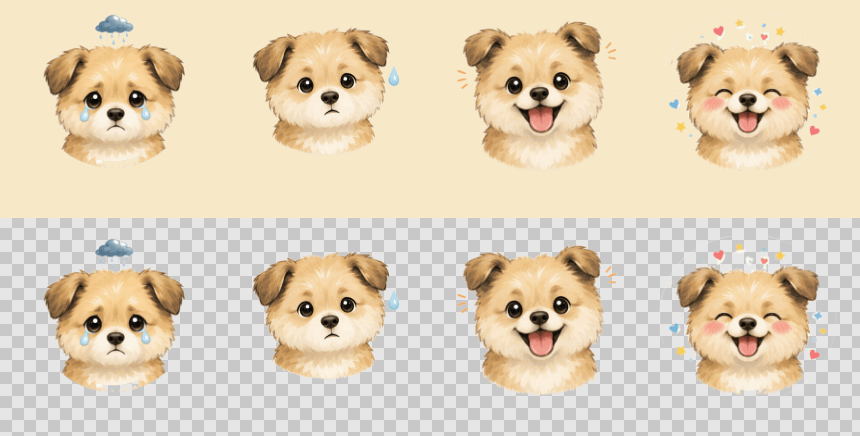
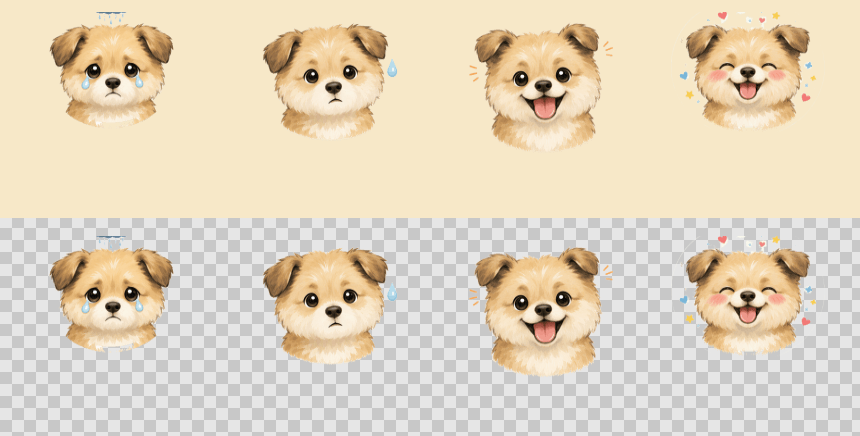
小程序: 四心情贴纸改腮宽归一化真正对齐头宽头顶(彩纸乌云不参与基准)，文件名升 v4 防同路径缓存

diff --git a/miniapp/src/features/main/miniappPresentation.test.ts b/miniapp/src/features/main/miniappPresentation.test.ts
@@ -250,10 +250,10 @@ describe('miniapp ui presentation rules', () => {
     expect(form).toContain('polaroid-run-v2.png')
     expect(form).toContain('replacePrimaryPhoto')
     expect(form).toContain('editor-yard.jpg')
-    expect(form).toContain('moods/mood-1-v3.png')
-    expect(form).toContain('moods/mood-2-v3.png')
-    expect(form).toContain('moods/mood-3-v3.png')
-    expect(form).toContain('moods/mood-4-v3.png')
+    expect(form).toContain('moods/mood-1-v4.png')
+    expect(form).toContain('moods/mood-2-v4.png')
+    expect(form).toContain('moods/mood-3-v4.png')
+    expect(form).toContain('moods/mood-4-v4.png')
     expect(form).toContain('journal-editor__moods')
     expect(form).toContain('chooseMood')
     expect(form).not.toContain('pickMood')
@@ -287,10 +287,10 @@ describe('miniapp ui presentation rules', () => {
     expect(manifest).toContain('journal/action-photo-v2.png')
     expect(manifest).toContain('journal/action-write-v2.png')
     expect(manifest).toContain('journal/editor-yard.jpg')
-    expect(manifest).toContain('moods/mood-1-v3.png')
-    expect(manifest).toContain('moods/mood-2-v3.png')
-    expect(manifest).toContain('moods/mood-3-v3.png')
-    expect(manifest).toContain('moods/mood-4-v3.png')
+    expect(manifest).toContain('moods/mood-1-v4.png')
+    expect(manifest).toContain('moods/mood-2-v4.png')
+    expect(manifest).toContain('moods/mood-3-v4.png')
+    expect(manifest).toContain('moods/mood-4-v4.png')
   })
 
   it('presents the message tab empty state with an invite illustration and share action', () => {

diff --git a/miniapp/src/features/main/JournalEditorForm.tsx b/miniapp/src/features/main/JournalEditorForm.tsx
@@ -17,10 +17,10 @@ const polaroidRun = require('../../assets/journal/polaroid-run-v2.png')
 const editorYard = require('../../assets/journal/editor-yard.jpg')
 
 const moodImages: Record<string, string> = {
-  happy: require('../../assets/moods/mood-3-v3.png'),
-  calm: require('../../assets/moods/mood-2-v3.png'),
-  sad: require('../../assets/moods/mood-1-v3.png'),
-  excited: require('../../assets/moods/mood-4-v3.png'),
+  happy: require('../../assets/moods/mood-3-v4.png'),
+  calm: require('../../assets/moods/mood-2-v4.png'),
+  sad: require('../../assets/moods/mood-1-v4.png'),
+  excited: require('../../assets/moods/mood-4-v4.png'),
 }
 
 const MAX_PHOTOS = 3

diff --git a/docs/features/miniapp.md b/docs/features/miniapp.md
@@ -46,7 +46,7 @@ flowchart LR
 - 小记、消息、我的三个 tab 的根节点（`.miniapp-journal` / `.miniapp-messages` / `.miniapp-me`）与游戏中心、锁定信件场景同模式，各自是 `position: fixed; inset: 0; z-index: 19; overflow-y: auto` 的固定全屏层：页面文档流高度归零，真机整页不可拖动，内容超一屏由层内滚动兜底（小记正常内容仍恰好一屏，padding 8px 28px 226px 复刻原几何）。层在底部导航（z 20）之下；loading 与解锁后的活跃态小窝仍走原文档流。
 - 「关于小多利」弹窗长按版本号进入隐藏 GM 工具：可为当前账号批量添加 1/3/5 个测试好友（服务端生成 `gm_friend_*` 假用户并直接建立已接受关系、房间和宠物），也可一键删除全部测试好友；删除只作用于 GM 生成的假用户及其关系（真实好友不受影响，服务端按外键级联清理对应房间与宠物数据）。添加或删除成功后立即刷新首页上下文（`MiniappMeView` 的 `onDataChanged`）。
 - 全小程序返回入口统一使用共享组件 `MiniappBackButton`（`miniapp/src/components/`）：无底色的深棕细左箭头（CSS 边框旋转绘制，4rpx 描边），仅保留 72rpx 透明命中区域与按压变淡反馈，`aria-label="返回"`。写日记顶栏、纪念日面板、今日运势页、游戏中心和五子棋页的返回都由它渲染，不再各自维护 `‹` 字符或文字样式。
-- 小记为单人日记：整页固定一屏不滚动（容器 `height: calc(100vh - 220px)`、`overflow: hidden`），今日运势条固定可见，「查看」展开的历史日记在今日块固定区域内超出裁剪；页面背景与其它主界面同为 `#fff8ee`；标题左对齐，下方简介「记录和小多利的每一天。」，「日记 / 纪念日」居中分页；周历放在白卡片里；进入小记时今日日记先显示三行微光骨架占位（`prefers-reduced-motion` 时静止），本周日记接口返回后才把骨架换成空态文案或已记录内容，不再先闪「还没有日记」默认文案再刷新；周日记走内存单槽缓存（`miniapp/src/features/main/journalWeekCache.ts`，只存最后一次请求窗口），请求成功写入缓存，再次切入小记 tab（组件重挂载）时直接渲染缓存数据、不重播骨架动画，改为后台静默刷新替换；已登录冷启动与微信登录成功后后台预取本周日记，首次进小记多数也能直接命中，登出时清缓存防串号；跨周翻页与缓存外的周仍按首次加载播骨架，请求失败时保留缓存/已有数据不闪空态；今日日记卡右侧有「查看」，未上传照片时默认拍立得用坐姿小狗并放大到 280×292（与上传照片白框外径一致，切换不跳变），正文在卡内 `ScrollView` 滚动查看（字号不变，`word-break: break-all` 保证无空格长串也换行），上传照片后用白框拍立得展示（264 内衬 + 8/8/20 边衬，倾角与坐姿邮票一致，约 -6°）；写日记/拍照记录插图较大；各区块使用统一 32rpx 间距；写日记/拍照记录按钮收矮且距卡片底边不变，今日日记上半拍立得区固定 292rpx，运势条紧跟其下、自带 24rpx 底部外边距整体上移，与底栏间距接近消息页。写日记和纪念日都在当前页全屏打开，不跳转；写日记覆盖层固定一屏不滚动，自带顶栏（统一返回按钮 / 写日记 / 保存）、白卡片占满剩余高度（卡片内除正文外全部定高不可压缩；庭院插画整体下移 85rpx 裁掉部分底部空草地，小狗落在卡片下方约 330rpx 露出带里）和心情选择行；正文 textarea 是卡片内唯一弹性区（内容多时在框内滚动，最低 60rpx），相册缩略图行和地点输入出现时压缩正文区而非撑高卡片；心情直接点选表情图（难过/平静/开心/兴奋，120rpx 大图，选中高亮；表情为 200×200 透明贴纸，由 `miniapp/tools/make-mood-slices.mjs` 从四心情源图出件：边界洪泛转真透明 + 圆盘灰环几何擦除 + 按头部归一化统一四张的尺寸与高度，文件名带版本号当前 -v3），日期行不再重复显示心情文字；天气按钮动态显示当前天气图标；未放照片时拍立得放大为 300×326（奔跑邮票 `aspectFit` 居中，「点这里放今天的照片」提示收在框内下方，不遮挡工具栏），放照片后白框外径与之完全一致（272 内衬 + 14/14/40 边衬，倾角与默认奔跑邮票一致约 +6°，两张默认邮票倾角实测方向相反），切换尺寸不跳变，默认插图为奔跑小狗；照片最多 3 张，点主图弹「查看大图/更换照片」，点主图下方缩略图直接预览大图，缩略图 × 移除不影响预览。不提供点赞和分享。
+- 小记为单人日记：整页固定一屏不滚动（容器 `height: calc(100vh - 220px)`、`overflow: hidden`），今日运势条固定可见，「查看」展开的历史日记在今日块固定区域内超出裁剪；页面背景与其它主界面同为 `#fff8ee`；标题左对齐，下方简介「记录和小多利的每一天。」，「日记 / 纪念日」居中分页；周历放在白卡片里；进入小记时今日日记先显示三行微光骨架占位（`prefers-reduced-motion` 时静止），本周日记接口返回后才把骨架换成空态文案或已记录内容，不再先闪「还没有日记」默认文案再刷新；周日记走内存单槽缓存（`miniapp/src/features/main/journalWeekCache.ts`，只存最后一次请求窗口），请求成功写入缓存，再次切入小记 tab（组件重挂载）时直接渲染缓存数据、不重播骨架动画，改为后台静默刷新替换；已登录冷启动与微信登录成功后后台预取本周日记，首次进小记多数也能直接命中，登出时清缓存防串号；跨周翻页与缓存外的周仍按首次加载播骨架，请求失败时保留缓存/已有数据不闪空态；今日日记卡右侧有「查看」，未上传照片时默认拍立得用坐姿小狗并放大到 280×292（与上传照片白框外径一致，切换不跳变），正文在卡内 `ScrollView` 滚动查看（字号不变，`word-break: break-all` 保证无空格长串也换行），上传照片后用白框拍立得展示（264 内衬 + 8/8/20 边衬，倾角与坐姿邮票一致，约 -6°）；写日记/拍照记录插图较大；各区块使用统一 32rpx 间距；写日记/拍照记录按钮收矮且距卡片底边不变，今日日记上半拍立得区固定 292rpx，运势条紧跟其下、自带 24rpx 底部外边距整体上移，与底栏间距接近消息页。写日记和纪念日都在当前页全屏打开，不跳转；写日记覆盖层固定一屏不滚动，自带顶栏（统一返回按钮 / 写日记 / 保存）、白卡片占满剩余高度（卡片内除正文外全部定高不可压缩；庭院插画整体下移 85rpx 裁掉部分底部空草地，小狗落在卡片下方约 330rpx 露出带里）和心情选择行；正文 textarea 是卡片内唯一弹性区（内容多时在框内滚动，最低 60rpx），相册缩略图行和地点输入出现时压缩正文区而非撑高卡片；心情直接点选表情图（难过/平静/开心/兴奋，120rpx 大图，选中高亮；表情为 200×200 透明贴纸，由 `miniapp/tools/make-mood-slices.mjs` 从四心情源图出件：边界洪泛转真透明 + 圆盘灰环几何擦除 + 按主体腮宽归一化统一四张狗头的尺寸与高度（装饰不参与基准），文件名带版本号当前 -v4），日期行不再重复显示心情文字；天气按钮动态显示当前天气图标；未放照片时拍立得放大为 300×326（奔跑邮票 `aspectFit` 居中，「点这里放今天的照片」提示收在框内下方，不遮挡工具栏），放照片后白框外径与之完全一致（272 内衬 + 14/14/40 边衬，倾角与默认奔跑邮票一致约 +6°，两张默认邮票倾角实测方向相反），切换尺寸不跳变，默认插图为奔跑小狗；照片最多 3 张，点主图弹「查看大图/更换照片」，点主图下方缩略图直接预览大图，缩略图 × 移除不影响预览。不提供点赞和分享。
 - 日记数据使用个人维度 `/api/diaries` 接口（创建、区间列表、更新、删除、切换喜欢），照片压缩后以 base64 存储，单张不超过 30 万字符、每篇最多 3 张。
 - 纪念日与日记编辑器仍保留独立页面路由作壳层（`pages/journal-anniversary`、`pages/journal-editor`），主路径在小记当前页全屏打开对应面板；纪念日沿用房间维度接口，无好友时回退个人 `pet_dm` 房间。纪念日面板顶部有暖色渐变过渡；面板覆盖层与写日记一致为定高 `overflow: hidden` 一屏层不可滑动（表单照片区 220rpx、间距收紧凑保证小屏一屏放下）；进入面板先显示两块微光骨架卡，接口返回后才渲染列表或空态，不再先闪默认空状态。纪念日列表卡片为「暖底圆角方形图标座 + 左侧信息 + 右侧倒计时聚焦块」，带顶部高光与多层投影（图标为 256×256 手绘贴纸风透明底 PNG，由 `miniapp/tools/make-anniversary-icons.mjs` 从 SVG 出件：深棕粗描边 + 奶白/柔粉填充 + 暖橙点缀与小星星装饰，与应用内心情/动作图标同语言，单张 4–8KB）：信息列依次为名称（卡片标题档）、日期行（`2024年8月28日 · 每年/单次`）、说明（单行省略）与「已走过 N 天」等辅句；右侧聚焦块展示大号倒计时数字加「天后/天前」单位（40rpx 档），点击卡片进入编辑；当天纪念日卡片换暖色渐变底，聚焦块显示「今天」，辅句显示「第 N 周年 🎉」（单次为「就是今天 🎉」）；未到首次日期的纪念日辅句显示「期待中 ✨」。列表按下次日期由近到远排序（过期单次垫底），底部为虚线描边卡片式「+ 添加纪念日」按钮；空状态为白卡居中气球插画加「还没有纪念日」与引导文案；列表卡片有轻量上浮入场动效并支持 `prefers-reduced-motion` 降级。可选上传一张照片作纪念日背景（表单照片区 300rpx 高，复用 `imageCompression` 统一压缩链路：quality 80、宽度档 [1080, 900, 720]、dataURL 上限 300_000 字符，服务端 `anniversaryPhotoSchema` 同步校验，`photo: null` 清除）；上传照片后列表改用 DaysMatter 式照片背景大卡（560rpx 高，照片 `aspectFill` 铺底 + 上下渐隐遮罩，居中展示「名称 · 还有/已经」引导句、132rpx 大号倒计时数字与「N年N月M日 星期X」日期行，白字带投影），无照片仍用图标座卡片。表单整体收进白卡：日期、名称、说明为暖底字段块，五个图标选项为等宽大图标格（84rpx 透明底贴纸直接点选，无边框不可滑动，选中仅换暖底加深色描边，与写日记心情选择同款交互），「每年重复/不重复」为分段控件（选中格白底浮起，原生按钮边框已重置），底部操作行为「取消 / 删除（编辑时） / 保存」，保存为暖色渐变胶囊按钮。
 - 我的页面支持 MBTI 选择并通过资料接口保存。
@@ -166,10 +166,10 @@ npm run build:weapp --prefix miniapp
 | `journal/action-write-v2.png` | 320×270 | 14 KB | 小记「写日记」按钮插画 |
 | `journal/action-photo-v2.png` | 359×219 | 22 KB | 小记「拍照记录」按钮插画 |
 | `journal/editor-yard.jpg` | 750×750 | 29 KB | 写日记页底部庭院背景 |
-| `moods/mood-1-v3.png` | 200×200 | 14 KB | 写日记心情选择：难过（乌云含泪，透明抠图） |
-| `moods/mood-2-v3.png` | 200×200 | 14 KB | 写日记心情选择：平静（侧边汗滴，透明抠图） |
-| `moods/mood-3-v3.png` | 200×200 | 17 KB | 写日记心情选择：开心（吐舌笑加短线，透明抠图） |
-| `moods/mood-4-v3.png` | 200×200 | 17 KB | 写日记心情选择：兴奋（眯眼腮红加爱心星星，透明抠图） |
+| `moods/mood-1-v4.png` | 200×200 | 11 KB | 写日记心情选择：难过（乌云含泪，透明抠图） |
+| `moods/mood-2-v4.png` | 200×200 | 12 KB | 写日记心情选择：平静（侧边汗滴，透明抠图） |
+| `moods/mood-3-v4.png` | 200×200 | 14 KB | 写日记心情选择：开心（吐舌笑加短线，透明抠图） |
+| `moods/mood-4-v4.png` | 200×200 | 13 KB | 写日记心情选择：兴奋（眯眼腮红加爱心星星，透明抠图） |
 
 本地包内资源禁止使用 WebP（微信 image 组件不解析本地 WebP，iOS 真机会整块不显示；WebP 仅用于塔罗 COS 网络资源并配合 `webp` 属性）。入库前用 `scripts/optimize-miniapp-assets.mjs` 统一压缩：带透明通道的图片转 256 色全色板 + 误差扩散抖动 PNG（禁止再压 64/128 小色板，2026-08 验收发现小色板把整体压灰；全量真彩 PNG 约 5.4MB 超包，256 全色板是包体约束下最接近原图色彩的方案），不透明背景转 JPEG（mozjpeg，4:4:4 色度保留），两张大背景按显示密度降采样（street 840px、room 1152px）。可选 TinyPNG 追加压缩：设置 `TINIFY_API_KEY` 环境变量后执行 `node scripts/optimize-miniapp-assets.mjs --write`，脚本在本地优化产物上再过一遍 TinyPNG，只覆盖收益 ≥2% 的文件，输出保持 PNG/JPEG（key 存环境变量，禁止进仓库）。运行时用户照片压缩走 `miniapp/src/services/imageCompression.ts`：单次压缩、quality 80、按宽度档位 `[1080, 900, 720]`（头像 `[640, 480, 360]`）降分辨率重试，禁止降质量和重复压缩（详见 `.agents/rules/miniapp-image.md`）。运行时使用固定容器尺寸和 `aspectFit` 或 `aspectFill`，避免布局跳动。每张小程序图片控制在 180 KB 安全线内；主包构建产物必须低于微信 2MB 上限（当前约 1.9MB，若继续膨胀需考虑非 tab 页分包或大图迁 COS）。小程序副本随 `miniapp` 构建产物分发；塔罗资源不打包，从 COS 版本目录下载。
 

diff --git a/docs/context.md b/docs/context.md
@@ -248,7 +248,7 @@
 - **原因**：用户验收用新四心情贴纸（乌云哭/汗滴/吐舌笑/腮红眯眼）替换日记心情选择器表情，需白底转真透明出件并同步文档。
 - **修改**：
   - `miniapp/tools/make-mood-slices.mjs`：新增出件脚本（边界洪泛转真透明+圆盘灰环几何擦除+PNG8）
-  - `miniapp/src/assets/moods/mood-1..4-v3.png`：200px 透明贴纸替换 v2（160px），v2 删除
+  - `miniapp/src/assets/moods/mood-1..4-v4.png`：200px 透明贴纸替换 v2（160px），v2 删除
   - `miniapp/src/features/main/JournalEditorForm.tsx` 与 `miniappPresentation.test.ts`：引用升 v3
   - `docs/assets/asset-manifest.json`：登记 v3 四张与 source-only 源图 `design-assets/nest/mood-four-source.jpg`
   - `docs/features/miniapp.md`：心情选择器条目与资源表更新
